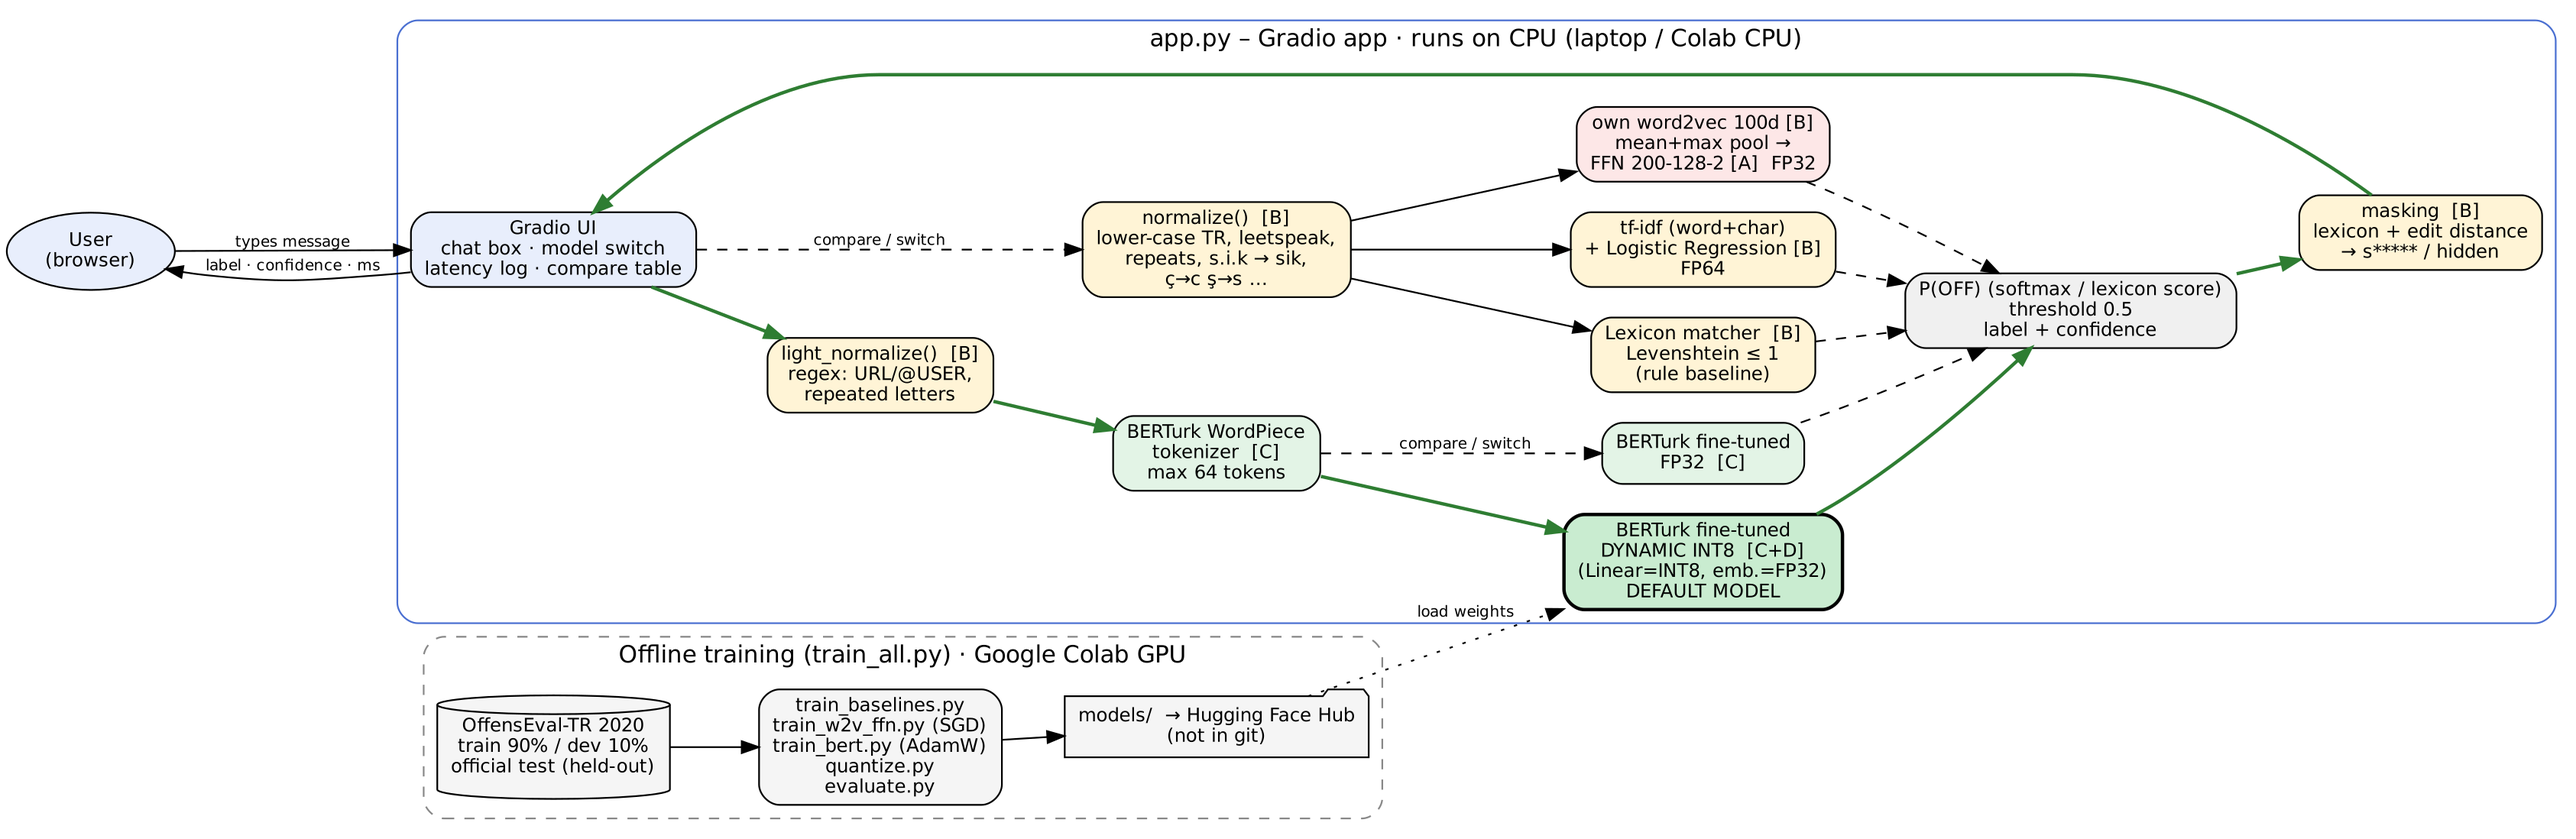
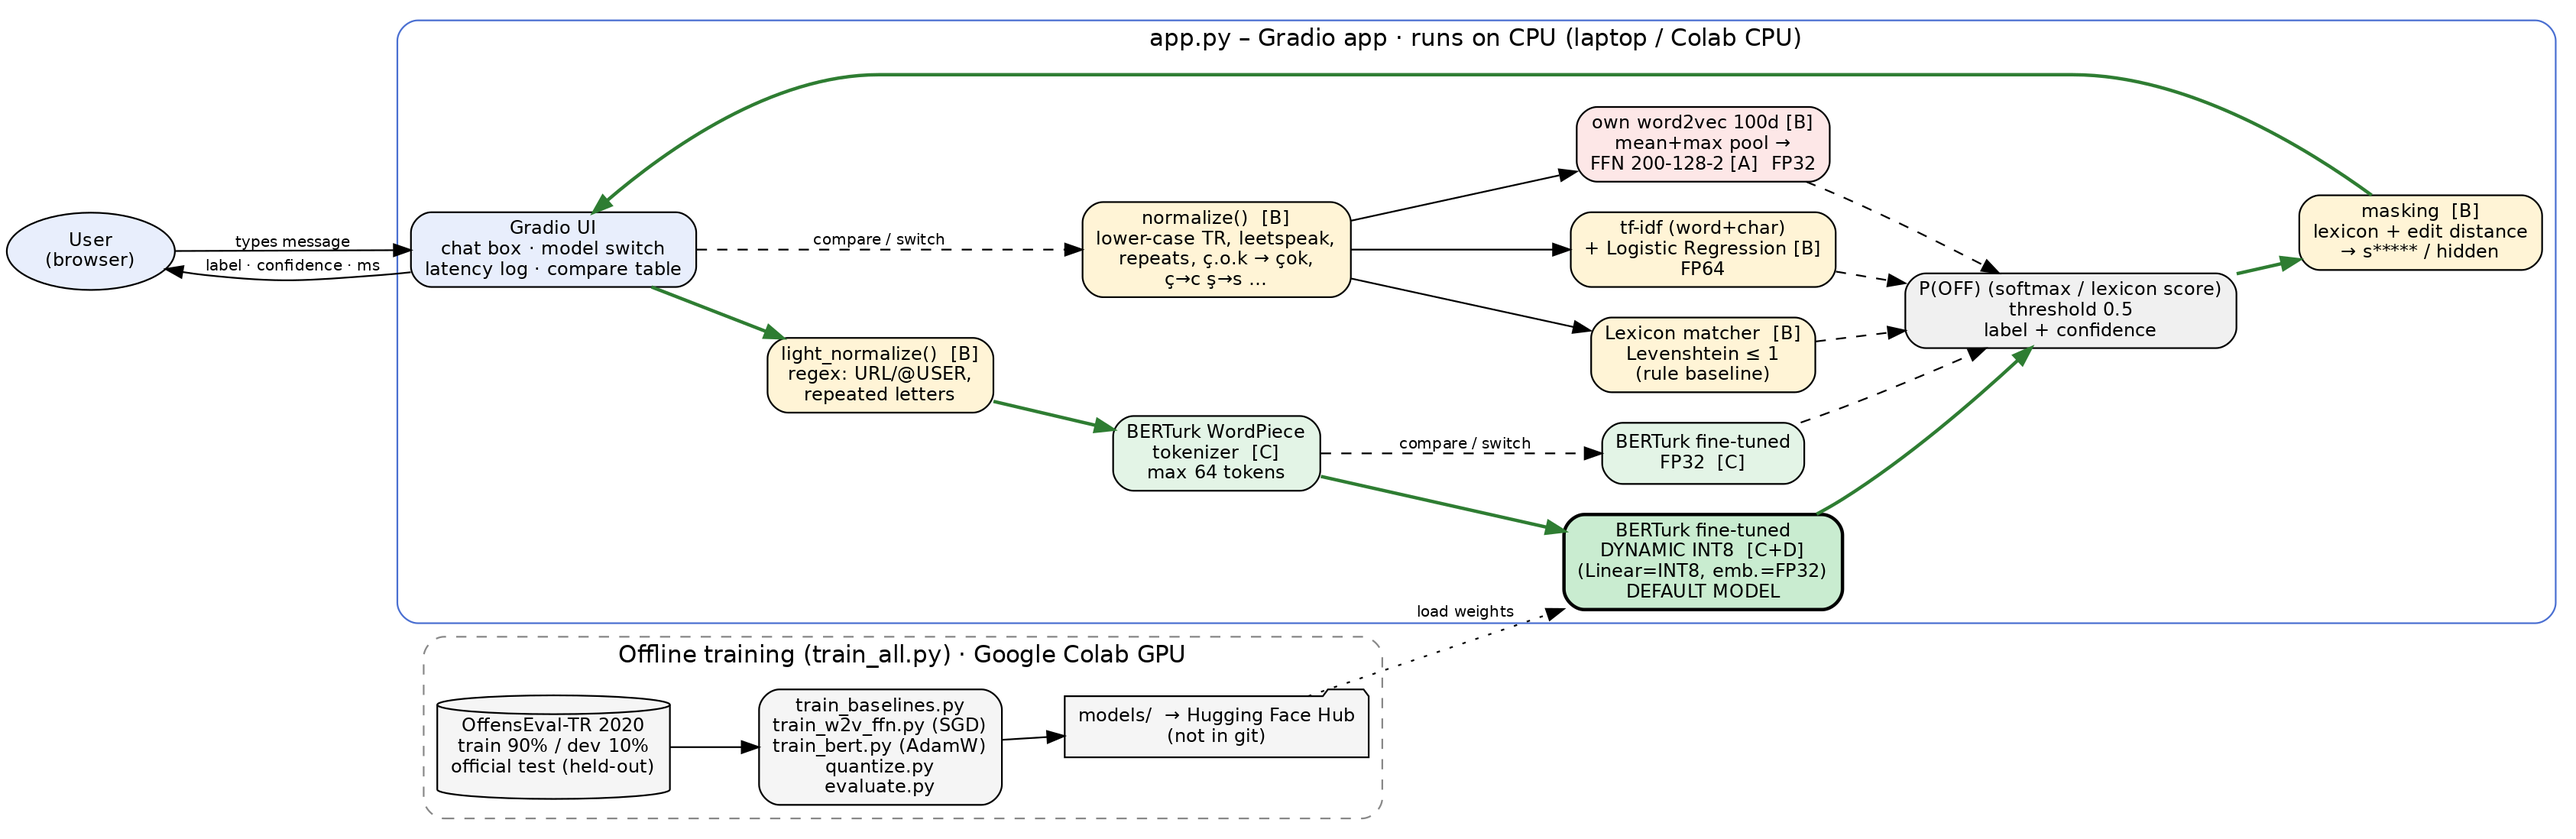
Add files via upload

diff --git a/src/lexicon.py b/src/lexicon.py
@@ -4,23 +4,21 @@ The lexicon = a small hand-written seed list of Turkish profanity stems
             + words that are strongly associated with the OFF class in the TRAINING split
               (count >= MIN_COUNT and P(OFF | word) >= MIN_PRECISION).
 A message is flagged if any token matches a lexicon entry:
-  * exact match for short entries (< 4 letters, e.g. "amk", "aq"),
-  * otherwise a prefix of the token (Turkish is agglutinative: "siktir" -> "siktirin")
+  * exact match for short entries (< 4 letters, typical abbreviations),
+  * otherwise a prefix of the token (Turkish is agglutinative: "salak" -> "salaksin")
     is within Levenshtein distance 1 of the entry (exact prefix for 4-letter entries).
 """
+import codecs
 import json
 from collections import Counter
 from functools import lru_cache
 
 from .normalize import tokenize
 
-# Hand-written seed stems (already in normalized, ASCII-folded form).
-SEED_LEXICON = [
-    "amk", "aq", "amq", "mk", "oc", "aw", "sg", "siktir", "sikerim", "sikik", "sikis", "yarrak", "yarak",
-    "orospu", "orosbu", "kahpe", "pic", "pezevenk", "gavat", "ibne", "got", "gotveren", "gotlek",
-    "amina", "amcik", "yavsak", "serefsiz", "haysiyetsiz", "pust", "dalyarak", "salak", "aptal",
-    "gerizekali", "mal", "andaval", "dangalak", "hiyar", "ahmak", "lavuk", "kaltak", "surtuk",
-]
+# Hand-written seed stems (normalized, ASCII-folded form). The list is stored ROT13-encoded so that
+# profanity is not displayed in plain text in the repository; it is decoded when the module is imported.
+_SEED_ROT13 = ("nzx nd nzd zx bp nj ft fvxgve fvxrevz fvxvx fvxvf lneenx lnenx bebfch bebfoh xnucr cvp crmrirax tning voar tbg tbgirera tbgyrx nzvan nzpvx lnifnx frersfvm unlfvlrgfvm chfg qnylnenx fnynx ncgny trevmrxnyv zny naqniny qnatnynx uvlne nuznx ynihx xnygnx fheghx")
+SEED_LEXICON = [codecs.decode(w, "rot13") for w in _SEED_ROT13.split()]
 
 MIN_COUNT = 5
 MIN_PRECISION = 0.85
@@ -84,7 +82,7 @@ class LexiconMatcher:
     def match_token(self, tok: str) -> str | None:
         """Return the lexicon entry a token matches, or None.
         Short entries must match exactly; long entries may match a PREFIX of the token
-        (Turkish suffixes: "siktir" -> "siktirin") within Levenshtein distance 1."""
+        (Turkish suffixes: "salak" -> "salaksin") within Levenshtein distance 1."""
         if tok in self.short:
             return tok
         for k in range(3, len(tok) + 1):

diff --git a/src/normalize.py b/src/normalize.py
@@ -20,7 +20,7 @@ RE_URL = re.compile(r"(https?://\S+|www\.\S+|\bURL\b)", re.IGNORECASE)
 RE_USER = re.compile(r"@USER\b|@\w+")
 RE_HASHTAG = re.compile(r"#(\w+)")
 RE_REPEAT = re.compile(r"(\w)\1{2,}")                         # 3+ identical letters
-RE_INWORD_SEP = re.compile(r"(?<=\w)[.\-_*+]+(?=\w)")           # s.i.k / o-r-o-s-p-u / s*k
+RE_INWORD_SEP = re.compile(r"(?<=\w)[.\-_*+]+(?=\w)")           # s.a.l.a.k / a-p-t-a-l / a*ptal
 RE_LEET_TOKEN = re.compile(r"\b(?=[\w@$€]*[a-zçğıöşü])(?=[\w@$€]*[0-9@$€])[\w@$€]+\b", re.IGNORECASE)
 RE_NON_WORD = re.compile(r"[^\w\s]")
 RE_SPACES = re.compile(r"\s+")
@@ -59,6 +59,6 @@ def tokenize(text: str) -> list[str]:
 
 
 if __name__ == "__main__":
-    for s in ["@USER Sen tam bir 0r0spu çocuğusun!!! URL", "s.i.k.t.i.r git", "ÇOOOOK GÜZELLL bir maç",
+    for s in ["@USER Sen tam bir 4pt4l mısın!!! URL", "s.a.l.a.k herif", "ÇOOOOK GÜZELLL bir maç",
               "IŞIK ve İSTANBUL", "#Galatasaray kazandııı"]:
         print(f"{s!r:45} -> {normalize(s)!r:35} | BERT: {light_normalize(s)!r}")

diff --git a/app.py b/app.py
@@ -113,8 +113,8 @@ with gr.Blocks(title="SWE015 – Real-Time Chat Moderation", **_blocks_kw) as de
             with gr.Row():
                 box = gr.Textbox(placeholder="Mesajını yaz ve Enter'a bas…", show_label=False, scale=5)
                 btn = gr.Button("Send", variant="primary", scale=1)
-            gr.Examples(["Bu maçta harika oynadın, tebrikler!", "s.i.k.t.i.r git buradan 0r0spu çocuğu",
-                         "AMKKK neden yine kaybettik", "Sen ne kadar mal bir oyuncusun ya",
+            gr.Examples(["Bu maçta harika oynadın, tebrikler!", "Defol git buradan, s.a.l.a.k herif",
+                         "Gerizekalı mısın, neden pas vermiyorsun?", "Sen ne kadar beceriksiz bir oyuncusun ya",
                          "Bugün hava çok güzel, akşam oynayalım mı?"], inputs=box)
             cmp_df = gr.Dataframe(label="All models on the last message", interactive=False)
         with gr.Column(scale=2):

diff --git a/train_all.py b/train_all.py
@@ -12,7 +12,7 @@ import time
 def test_app():
     """Build the Gradio app (without launching it) and send two messages through it."""
     import app
-    for msg in ("Bu maçta harika oynadın, tebrikler!", "s.i.k.t.i.r git buradan"):
+    for msg in ("Bu maçta harika oynadın, tebrikler!", "Defol git buradan, s.a.l.a.k herif"):
         _, html, log, cmp, summary, chat, logs = app.send(msg, app.DEFAULT, True, [], [])
         assert chat and logs and len(cmp) == len(app.MODELS), "app did not return a result"
         print(f"[app] {msg!r} -> {chat[-1]['label']} ({chat[-1]['conf']:.2f}) in {chat[-1]['ms']:.1f} ms; "

diff --git a/fill_slides.py b/fill_slides.py
@@ -126,6 +126,8 @@ def build_values(args):
     err = pd.read_csv(err_path) if err_path.exists() else pd.DataFrame(columns=["text", "label", "bert_int8"])
     for kind, lab, key in (("false positive", 0, "FP"), ("false negative", 1, "FN")):
         e = err[err.label == lab]
+        clean = e[[not matcher.matches(str(t)) for t in e["text"]]]   # avoid showing profanity on slides
+        e = clean if len(clean) else e
         if len(e):
             row = e.iloc[0]
             p = row["bert_int8"]

diff --git a/train_w2v_ffn.py b/train_w2v_ffn.py
@@ -25,7 +25,7 @@ def main():
     C.W2V_PATH.parent.mkdir(parents=True, exist_ok=True)
     w2v.save(str(C.W2V_PATH))
     print(f"[w2v] vocabulary = {len(w2v.wv):,} words")
-    for probe in ("siktir", "salak", "mac"):
+    for probe in ("aptal", "mac", "oyun"):
         if probe in w2v.wv:
             print(f"[w2v] nearest to '{probe}':", [w for w, _ in w2v.wv.most_similar(probe, topn=5)])
 

diff --git a/README.md b/README.md
@@ -14,7 +14,7 @@ Gradio chat application.
 | Quantized Transformer | Post-training **dynamic INT8** quantization of BERTurk (all `nn.Linear`) | D |
 
 Preprocessing (B): regex normalization of noisy text – Turkish-aware lower-casing, leetspeak
-(`0r0spu → orospu`), repeated letters (`çoooook → çok`), in-word separators (`s.i.k → sik`),
+(`0yun → oyun`), repeated letters (`çoooook → çok`), in-word separators (`ç.o.k → çok`),
 Turkish-to-ASCII folding. Latency budget (D): **50 ms per message on CPU**.
 
 ![architecture](docs/architecture.png)
